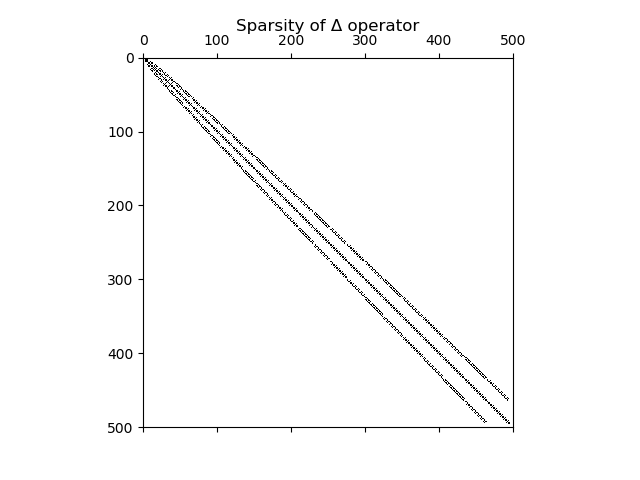
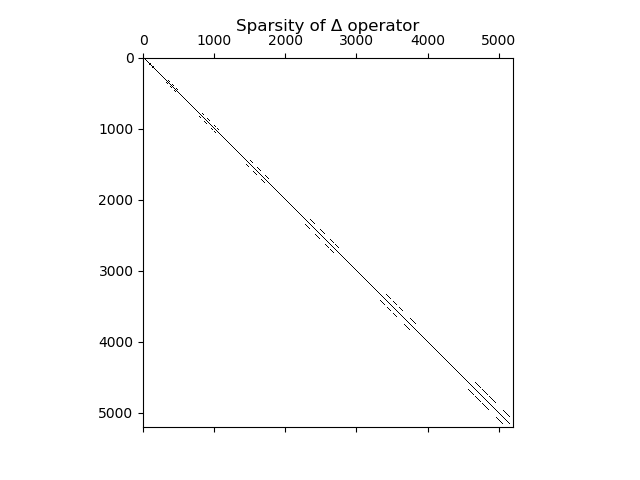
Further edits to paper. Included updated figures

diff --git a/papers/halfdisk/halfdisk.tex b/papers/halfdisk/halfdisk.tex
@@ -183,7 +183,7 @@ More precisely, let  \(\rho \: : \: (\alpha,\beta) \: \to (0,\infty)\) be such t
 
 We consider the solution of partial differential equations on the domain
 \begin{align}
-\Omega := \{(x,y) \in \R^2 \quad | \quad \alpha < x < \beta, \: \gamma \rho(x) < y < \delta \rho(x)\}
+\Omega := \{(x,y) \in \R^2 \quad | \quad \alpha < x < \beta, \: \gamma \rho(x) < y < \delta \rho(x)\}.
 \end{align}
 For simplicity of discussion we focus on the half-disk, where $\rho(x) = \sqrt{1-x^2}$,  $(\alpha,\beta) = (0, 1)$, and  $(\gamma, \delta)  = (-1,1)$, with discussion of extension to other geometries in the appendix. 
 
@@ -192,7 +192,7 @@ We show that partial differential equations become sparse linear systems when vi
 $$
 W^{(a,b)}(x,y) = x^a (1-x-y)^b
 $$
-with corresponding OPs denoted $P_{n,k}^{(a,b)}(x,y)$. We define these to be orthogonalised lexicographically, that is,
+with corresponding OPs denoted $P_{n,k}^{(a,b)}(x,y)$, where $n$ denotes the polynomial degree, and $0 \le k \le n$. We define these to be orthogonalised lexicographically, that is,
 $$
 P_{n,k}^{(a,b)}(x,y) = C_{n,k} x^{n-k} y^k + (\hbox{lower order terms})
 $$
@@ -214,12 +214,9 @@ Here is an overview of the paper:
 \noindent\secref{Examples}: We demonstrate the proposed technique for solving Poisson, Helmholtz, and Biharmonic equations on the half-disk.  
 
 
-The motivation for this work is to solve surface PDEs on the sphere.
-In subsequent work we will extend  directly by projecting up to 3D OPs on the hemisphere, where sparse operators, function evaluation and expansion etc. can be found similarly. 
-
 \section{Orthogonal polynomials on the half disk}\label{Section:OPs}
 
-In this section we outline some basic properties of $P_{n,k}^{(a,b)}(x,y)$. The symmetry in the weight allows us to express the polynomials in terms of 1D OPs, and deduce certain properties such as recurrence relationships. 
+In this section we outline the construction and some basic properties of $P_{n,k}^{(a,b)}(x,y)$. The symmetry in the weight allows us to express the polynomials in terms of 1D OPs, and deduce certain properties such as recurrence relationships. 
 
 \subsection{Explicit construction}
 
@@ -227,36 +224,46 @@ In this section we outline some basic properties of $P_{n,k}^{(a,b)}(x,y)$. The 
 By using a similar process to \cite[p55--56]{dunkl2014orthogonal} we can construct 2D orthogonal polynomials on $\Omega$ from 1D orthogonal polynomials on the intervals \([0,1]\) and \([-1,1]\).
 
 \begin{proposition}
-Let \(w_1 : (\alpha,\beta) \: \to \R\), \(w_2 : (\gamma,\delta) \: \to \R\) be weight functions with \(\alpha,\beta,\gamma,\delta \in \R\),
-Then, \(\forall n,k = 0,1,2,\dots\) let \(\{p_{n,k}\}\) be polynomials orthogonal with respect to the weight \(\rho(x)^{2k+1} w_1(x)\), and \(\{q_{n}\}\) be polynomials orthogonal with respect to the weight \(w_2(x)\). Then
+Let \(w_1 : (\alpha,\beta) \: \to \R\), \(w_2 : (\gamma,\delta) \: \to \R\) be weight functions with \(\alpha,\beta,\gamma,\delta \in \R\), and let \(\rho \: : \: (\alpha,\beta) \: \to (0,\infty)\) be such that either:
+\begin{enumerate}
+\item  \(\rho\) is a degree 1 polynomial, or 
+\item \(\rho\) is the square root of a non-negative degree \(\le\) 2 polynomial, \(-\gamma = \delta > 0\), and \(w_2\) is an even function.
+\end{enumerate}
+$\forall$, $n = 0,1,2,\dots, $ let $\{p_{n,k}\}$ be polynomials orthogonal with respect to the weight $\rho(x)^{2k+1} w_1(x)$ where $0 \le k \le n$, and $\{q_{n}\}$ be polynomials orthogonal with respect to the weight $w_2(x)$. Then the 2D polynomials defined on $\Omega$
 $$
 \Pnk(x,y) := p_{n-k,k}(x) \: \rho(x)^k \: q_k(\frac{y}{\rho(x)}) \qquad\hbox{for} \qquad 0 \le k \le n, \: n = 0,1,2,\dots
 $$
 are orthogonal polynomials with respect to the weight \(W(x,y) := w_1(x) \: w_2(\frac{y}{\rho(x)}) \) on $\Omega$. 
 \end{proposition}
+\begin{proof}
+See \cite[p55--56]{dunkl2014orthogonal}.
+\end{proof}
 
 For the half disk, the weight $W^{(a,b)}(x,y) = x^a \: (1-x^2-y^2)^b$ results from setting:
-
 \begin{align}
 \begin{cases}
 (\alpha,\beta) &:= (0.1) \\
 (\gamma,\delta) &:= (-1,1) \\
 \rho(x) &:= (1-x^2)^{\half} \\
-w_1(x) &:= x^a \: (1-x^2)^b \\
-w_2(x) &:= (1-x^2)^b = (1-x)^b \: (1+x)^b,
+w_1(x) &:= w_H^{(a,b)}(x) := x^a \: (1-x^2)^b \\
+w_2(x) &:= w_P^{(b)}(x) := (1-x^2)^b = (1-x)^b \: (1+x)^b,
 \end{cases}
 \end{align}
 
-The weight $w_2(x)$ is an ultraspherical weight, and the corresponding OPs are   the Jacobi polynomials  \(\{P_n^{(b, b)}\}\). The weight $w_1(x)$ is non-classical (it is in fact semi-classical, and is equivalent to a generalized Jacobi weight \cite{magnus1995painleve}) and we introduce the notation \(\{H_n^{(a, b)}\}\) for the orthonormal polynomials. Thus we arrive at  a two parameter family of  2D orthogonal polynomials \(\{\Pnk\}\) given by, for \(0 \le k \le n, \: n = 0,1,2,\dots,\)
+The weight $w_2(x)$ is an ultraspherical weight, and the corresponding OPs are   the Jacobi polynomials  \(\{P_n^{(b, b)}\}\). The weight $w_1(x)$ is non-classical (it is in fact semi-classical, and is equivalent to a generalized Jacobi weight \cite{magnus1995painleve}) and we introduce the notation \(\{H_n^{(a, b)}\}\) for the orthonormal polynomials. Thus we arrive at  a two parameter family of  2D orthogonal polynomials \(\{\Pnkab\}\) given by, for \(0 \le k \le n, \: n = 0,1,2,\dots,\)
 \begin{align}
  \Pnk^{(a,b)}(x,y) := H_{n-k}^{(a, b+k+\half)}(x) \: \rho(x)^k \: P_k^{(b,b)}\fpr(\frac{y}{\rho(x)}), \quad (x,y) \in \Omega, 
 \end{align}
-orthogonal on \(\Omega\) with respect to the weight $W^{(a,b)}(x,y)$.
+orthogonal on \(\Omega\) with respect to the weight
+\begin{align}
+W^{(a,b)}(x,y) = w_H^{(a,b)}(x) \: w_P^{(b)}(\frac{y}{\rho(x)}) = x^a \: (1-x^2-y^2)^b.
+\end{align}
+
 
 
 \subsection{Jacobi matrices}
 
-Express the three-term recurrences associated to $H_n^{(a,b)}$ and $P_n^{(b,b)}$ as
+We can express the three-term recurrences associated to $H_n^{(a,b)}$ and $P_n^{(b,b)}$ as
 \begin{align}
 x H_n^{(a,b)}(x) &= \beta_n^{(a,b)} H_{n+1}^{(a,b)}(x) + \alpha_n^{(a,b)} H_n^{(a,b)}(x) + \beta_{n-1}^{(a,b)} H_{n-1}^{(a,b)}(x) \\
 y P_n^{(b,b)}(y) &= \delta_n^{(b)} P_{n+1}^{(b,b)}(y) + \gamma_n^{(b)} P_n^{(b,b)}(y) + \delta_{n-1}^{(b)} P_{n-1}^{(b,b)}(y),
@@ -275,14 +282,14 @@ for \((x,y) \in \Omega\), where
 \begin{align}
 \alphaab_{n,k,1} &:= \beta_{n-k-1}^{(a, b+k+\half)} \\
 \alphaab_{n,k,2} &:= \alpha_{n-k}^{(a, b+k+\half)} \\
-\betaab_{n,k,1} &:= \frac{\delta_{k-1}^{(b)}}{|| P_{n-1,k-1}^{(a,b)} ||_{W^{(a,b)}}^2} \: \ip<H_{n-k}^{(a, b+k+\half)}, H_{n-k}^{(a, b+k-\half)}>_{H^{(a, b+k+\half)}} \\
-\betaab_{n,k,2} &:= \frac{\delta_{k}^{(b)}}{|| P_{n-1,k+1}^{(a,b)} ||_{W^{(a,b)}}^2} \: \ip<H_{n-k}^{(a, b+k+\half)}, H_{n-k-2}^{(a, b+k+\frac{3}{2})}>_{H^{(a, b+k+\frac{3}{2})}} \\
-\betaab_{n,k,3} &:= \frac{\delta_{k-1}^{(b)}}{|| P_{n,k-1}^{(a,b)} ||_{W^{(a,b)}}^2} \: \ip<H_{n-k}^{(a, b+k+\half)}, H_{n-k+1}^{(a, b+k-\half)}>_{H^{(a, b+k+\half)}} \\
-\betaab_{n,k,4} &:= \frac{\delta_{k}^{(b)}}{|| P_{n,k+1}^{(a,b)} ||_{W^{(a,b)}}^2} \: \ip<H_{n-k}^{(a, b+k+\half)}, H_{n-k-1}^{(a, b+k+\frac{3}{2})}>_{H^{(a, b+k+\frac{3}{2})}} \\
-\betaab_{n,k,5} &:= \frac{\delta_{k-1}^{(b)}}{|| P_{n+1,k-1}^{(a,b)} ||_{W^{(a,b)}}^2} \: \ip<H_{n-k}^{(a, b+k+\half)}, H_{n-k+2}^{(a, b+k-\half)}>_{H^{(a, b+k+\half)}} \\
-\betaab_{n,k,6} &:= \frac{\delta_{k}^{(b)}}{|| P_{n+1,k+1}^{(a,b)} ||_{W^{(a,b)}}^2} \: \ip<H_{n-k}^{(a, b+k+\half)}, H_{n-k}^{(a, b+k+\frac{3}{2})}>_{H^{(a, b+k+\frac{3}{2})}}. 
+\betaab_{n,k,1} &:= \frac{\delta_{k-1}^{(b)}}{|| P_{n-1,k-1}^{(a,b)} ||_{W^{(a,b)}}^2} \: \ip<H_{n-k}^{(a, b+k+\half)}, H_{n-k}^{(a, b+k-\half)}>_{w_H^{(a, b+k+\half)}} \\
+\betaab_{n,k,2} &:= \frac{\delta_{k}^{(b)}}{|| P_{n-1,k+1}^{(a,b)} ||_{W^{(a,b)}}^2} \: \ip<H_{n-k}^{(a, b+k+\half)}, H_{n-k-2}^{(a, b+k+\frac{3}{2})}>_{w_H^{(a, b+k+\frac{3}{2})}} \\
+\betaab_{n,k,3} &:= \frac{\delta_{k-1}^{(b)}}{|| P_{n,k-1}^{(a,b)} ||_{W^{(a,b)}}^2} \: \ip<H_{n-k}^{(a, b+k+\half)}, H_{n-k+1}^{(a, b+k-\half)}>_{w_H^{(a, b+k+\half)}} \\
+\betaab_{n,k,4} &:= \frac{\delta_{k}^{(b)}}{|| P_{n,k+1}^{(a,b)} ||_{W^{(a,b)}}^2} \: \ip<H_{n-k}^{(a, b+k+\half)}, H_{n-k-1}^{(a, b+k+\frac{3}{2})}>_{w_H^{(a, b+k+\frac{3}{2})}} \\
+\betaab_{n,k,5} &:= \frac{\delta_{k-1}^{(b)}}{|| P_{n+1,k-1}^{(a,b)} ||_{W^{(a,b)}}^2} \: \ip<H_{n-k}^{(a, b+k+\half)}, H_{n-k+2}^{(a, b+k-\half)}>_{w_H^{(a, b+k+\half)}} \\
+\betaab_{n,k,6} &:= \frac{\delta_{k}^{(b)}}{|| P_{n+1,k+1}^{(a,b)} ||_{W^{(a,b)}}^2} \: \ip<H_{n-k}^{(a, b+k+\half)}, H_{n-k}^{(a, b+k+\frac{3}{2})}>_{w_H^{(a, b+k+\frac{3}{2})}}. 
 \end{align}
-where $|| p(x,y) ||_{W^{(a,b)}}^2 := \int_\Omega p(x,y)^2 \: \Wab(x,y) \: d\mathbf{x}$ and $\ip<p(x), q(x)>_{H^{(a, b)}} := \int_\alpha^\beta p(x) \: q(x) \: x^a \: (1-x^2)^b \: dx$, i.e the 1D inner product using the $\{H^{(a,b)}_n\}$ family weight.
+where $|| p(x,y) ||_{W^{(a,b)}}^2 := \int_\Omega p(x,y)^2 \: \Wab(x,y) \: d\mathbf{x}$ and $\ip<p(x), q(x)>_{w_H^{(a, b)}} := \int_\alpha^\beta p(x) \: q(x) \: x^a \: (1-x^2)^b \: dx$, i.e the 1D inner product using the $\{H^{(a,b)}_n\}$ family weight of $w_H^{(a, b)}$.
 
 \end{lemma}
 
@@ -293,8 +300,8 @@ Note that \(\ip<y \Pnkab, P_{m,j}^{(a,b)}>_\Wab = 0\) for \(m < n-1\) (and for \
 &= \Big( \int^1_0 H_{n-k}^{(a, b+k+\half)}(s) \: H_{m-j}^{(a, b+j+\half)}(s) \: s^a \: \rho(s)^{2b+k+j+2} \: ds \Big) \nonumber \\
 & \quad \quad \quad\cdot \: \Big( \int^1_{-1} P_k^{(b,b)}(t) \: P_j^{(b,b)}(t) \: t \: (1-t^2)^b \: dt \Big) \\
 &= \begin{cases}
-    	\delta_k^{(b)} \: \ip<H_{n-k}^{(a, b+k+\half)}, H_{m-k-1}^{(a, b+k+\frac{3}{2})}>_{H^{(a, b+k+\frac{3}{2})}} \quad& \text{if } j = k+1 \\
-	\delta_{k-1}^{(b)} \: \ip<H_{n-k}^{(a, b+k+\half)}, H_{m-k+1}^{(a, b+k-\half)}>_{H^{(a, b+k+\half)}} \quad& \text{if } j = k-1 \\
+    	\delta_k^{(b)} \: \ip<H_{n-k}^{(a, b+k+\half)}, H_{m-k-1}^{(a, b+k+\frac{3}{2})}>_{w_H^{(a, b+k+\frac{3}{2})}} \quad& \text{if } j = k+1 \\
+	\delta_{k-1}^{(b)} \: \ip<H_{n-k}^{(a, b+k+\half)}, H_{m-k+1}^{(a, b+k-\half)}>_{w_H^{(a, b+k+\half)}} \quad& \text{if } j = k-1 \\
 	0 & \text{otherwise}
       \end{cases}.
 \end{align}
@@ -516,7 +523,7 @@ There exist sparse operators \(D_x^{(a,b)}, \: D_y^{(a,b)}, \: W_x^{(a,b)}, \: W
 \end{align}
 The incrementing and decrementing of parameters as seen here is analogous to other well known orthogonal polynomials families' derivatives, for example the Jacobi polynomials, as seen in the DLMF \cite{DLMFDerivatives}.
 
-Further, we note that there exist "parameter transformation" Banded-Block-Banded matrix operators that increment/decrement the parameters, transforming the OPs from one (weighted or non-weighted) parameter space to another. We denote these operators as $T^{(a,b)\to(a+1,b)}$, $T^{(a,b)\to(a,b+1)}$ and $T^{(a,b)\to(a+1,b+1)}$ for conversion between non-weighted spaces, and similarly $T^{(a,b)\to(a-1,b)}$, $T^{(a,b)\to(a,b-1)}$ and $T^{(a,b)\to(a-1,b-1)}$ for conversion between weighted spaces, where:
+Further, we note that there exist "parameter transformation" Banded-Block-Banded matrix operators that increment/decrement the parameters, transforming the OPs from one (weighted or non-weighted) parameter space to another. We denote these operators as $T^{(a,b)\to(a+1,b)}$, $T^{(a,b)\to(a,b+1)}$ and $T^{(a,b)\to(a+1,b+1)}$ for conversion between non-weighted spaces, and similarly $T_W^{(a,b)\to(a-1,b)}$, $T_W^{(a,b)\to(a,b-1)}$ and $T_W^{(a,b)\to(a-1,b-1)}$ for conversion between weighted spaces, where:
 \begin{align}
 \bigP^{(a,b)}(x,y) &= \Big(T^{(a,b)\to(a+1,b)} \Big)^T \: \bigP^{(a+1,b)}(x,y) \\
 \bigP^{(a,b)}(x,y) &= \Big(T^{(a,b)\to(a,b+1)} \Big)^T \: \bigP^{(a,b+1)}(x,y) \\
@@ -640,14 +647,14 @@ x_{i+(k-1)N} &:= s_k, \quad i,k = 1,\dots,N, \\
 y_{l+(i-1)N} &:= (1-s_l^2)^\half \: t_l, \quad i,l = 1,\dots,N, \\
 w_{l+(k-1)N} &:= w_k^{(s)} w_l^{(t)}, \quad k,l = 1,\dots,N.
 \end{align}
-If $f(x,y)$ is an at most degree $N$ polynomial in $x$ and at most degree $2N-1$ in $y$ then
+Let $f(x,y)$ be a polynomial on $\Omega$. The quadrature rule is then
 $$
-\iint_\Omega f(x,y) \: \Wab(x,y) \: \D A = \half \sum_{j=1}^{N^2} w_j \: \big[ f(x_j, y_j) + f(x_j, -y_j) \big],
+\iint_\Omega f(x,y) \: \Wab(x,y) \: \D A \approx \half \sum_{j=1}^{N^2} w_j \: \big[ f(x_j, y_j) + f(x_j, -y_j) \big],
 $$
-
+where if $f(\cdot, y)$ for fixed $y$ is an at most degree $N$ polynomial and $f(x, \cdot)$ for fixed $x$  is an at most degree $2N-1$ polynomial, the quadrature rule is exact.
 \end{theorem}
-\begin{proof}
 
+\begin{proof}
 We will use the substitution that
 \begin{align}
 x &= s, \quad y = (1-s^2)^\half t.
@@ -657,7 +664,6 @@ First, note that
 W^{(a,b)}(x,y) &= x^a \: (1-x^2-y^2)^b, \quad \text{for } (x,y) \in \Omega, \\
 		      &= s^a \: (1-s^2)^{b} \: (1-t^2)^b =: V^{(a,b)}(s,t), \quad \text{for } (s,t) \in [0,1] \times [-1,1].
 \end{align}
-
 \end{proof}
 
 
@@ -687,35 +693,40 @@ and where
 f_{n,k} := \frac{\langle f, \: \Pnk^{(a,b)} \rangle_{W^{(a,b)}}}{|| \Pnk^{(a,b)} ||_{W^{(a,b)}}}
 \end{align*}
 
-
-\bstodo{This section contains repetition / expansion on the quadrature rule section above - not sure if we should remove it or move it?} We can develop a quadrature rule on the half disk \(\Omega\) in order to evaluate (40) and obtain the coefficient vectors \(\mathbf{f}_n\) as follows.
-
-Let \(f(x,y)\) be polynomial that is even in \(y\) of degree $d_1$ in $x$ and degree $d_2$ in $y$ (i.e. $f(\cdot, y)$ with $y$ fixed is a degree $d_1$ polynomial, and $f(x, \cdot)$ with $x$ fixed is an even degree $d_2$ polynomial). Then there exists a polynomial \(\tilde{f}(x,y)\) in \(x,y\) such that \(g(s,t) := f(x, y) = f(s, (1-s^2)^\half t) = \tilde{f}(s, (1-s^2) t^2)\) (i.e. that $d_2$ is an even integer). Now, as \(\tilde{f}\) is a polynomial, so must \(g\) be a polynomial of degree $d_1+\frac{d_2}{2}$ in $s$ and degree $d_2$ in $t$. Thus a quadrature rule of the following will be exact for the polynomial $f(x,y)$ (even in \(y\) of degree $\le d_1$ in $x$ and degree $\le d_2$ in $y$):
-\begin{align}
-& \quad \int_0^1 \int_{-\rho(x)}^{\rho(x)} W^{(a,b)}(x,y) \: f(x,y) \: dy \: dx \\
-&= \int_0^1 \int_{-1}^1 V^{(a,b)}(s,t) \: g(s,t) \: (1-s^2)^\half \: dt \: ds \\
-&= \int_0^1 s^a \: (1-s^2)^{b+\half} \: \Big( \sum_k^{\half(d_2 + 1)} w_k^{(t)} \: g(s, t_k) \Big) \: ds \\
-&= \sum_j^{\half(d_1 + \frac{d_2}{2} + 1)} \sum_k^{\half(d_2 + 1)} w_j^{(s)} w_k^{(t)} \: g(s_j, t_k) \\
-&= \sum_j^{\half(d_1 + \frac{d_2}{2} + 1)} \sum_k^{\half(d_2 + 1)} w_j^{(s)} w_k^{(t)} \: f(x_j, y_{j,k}),
-\end{align}
-where \(x_j := s_j,\) \(y_{j,k} := \rho(s_j) \: t_k\) are the quadrature points.
-
-We further note that for any polynomial \(f(x,y)\) that is odd in \(y\),
-\begin{align}
-\int_0^1 \int_{-\rho(x)}^{\rho(x)} W^{(a,b)}(x,y) \: f(x,y) \: dy \: dx = 0.
-\end{align}
-
-
-Then our quadrature rule for any polynomial \(f(x,y)\) on \(\Omega\) is:
-\begin{align}
-\int \int_\Omega W^{(a,b)}(x,y) \: f(x,y) \: dy \: dx \approx \half \: \sum_{j=1}^{N^2} w_j \: \big[ f(x_j, y_j) + f(x_j, -y_j) \big],
-\end{align}
-and is exact for any polynomial $f(x,y)$ where the degree in $x$ is $\le N$ and the degree in $y$ is $\le 2N-1$. Note that for a general polynomial where the overall degree is $N$, we still would hence need $N^2$ points and weights to make the rule exact. Thus,
+Using the quadrature rule detailed in Section 4.2, we can calculate exactly the coefficients $f_{n,k}$:
 \begin{align}
 \ip< f, \: \Pnk^{(a,b)} >_{W^{(a,b)}} &= \half \: \sum_{j=1}^{N^2} w_j \: \big[ \big(f(x_j, y_j) \: \Pnk^{(a,b)}(x_j, y_j)\big) +\big(f(x_j, -y_j) \: \Pnk^{(a,b)}(x_j, -y_j)\big) \big], \\
-|| \Pnk^{(a,b)} ||_{W^{(a,b)}}^2 &= \half \: \sum_{j=1}^{N^2} w_j \: \big[ \Pnk^{(a,b)}(x_j, y_j)^2 + \Pnk^{(a,b)}(x_j, -y_j)^2 \big],
+|| \Pnk^{(a,b)} ||_{W^{(a,b)}}^2 &= \half \: \sum_{j=1}^{N^2} w_j \: \big[ \Pnk^{(a,b)}(x_j, y_j)^2 + \Pnk^{(a,b)}(x_j, -y_j)^2 \big].
 \end{align}
-for suitably large $N$.
+
+%\bstodo{This section contains repetition / expansion on the quadrature rule section above - not sure if we should remove it or move it?} We can develop a quadrature rule on the half disk \(\Omega\) in order to evaluate (40) and obtain the coefficient vectors \(\mathbf{f}_n\) as follows.
+%
+%Let \(f(x,y)\) be polynomial that is even in \(y\) of degree $d_1$ in $x$ and degree $d_2$ in $y$ (i.e. $f(\cdot, y)$ with $y$ fixed is a degree $d_1$ polynomial, and $f(x, \cdot)$ with $x$ fixed is an even degree $d_2$ polynomial). Then there exists a polynomial \(\tilde{f}(x,y)\) in \(x,y\) such that \(g(s,t) := f(x, y) = f(s, (1-s^2)^\half t) = \tilde{f}(s, (1-s^2) t^2)\) (i.e. that $d_2$ is an even integer). Now, as \(\tilde{f}\) is a polynomial, so must \(g\) be a polynomial of degree $d_1+\frac{d_2}{2}$ in $s$ and degree $d_2$ in $t$. Thus a quadrature rule of the following will be exact for the polynomial $f(x,y)$ (even in \(y\) of degree $\le d_1$ in $x$ and degree $\le d_2$ in $y$):
+%\begin{align}
+%& \quad \int_0^1 \int_{-\rho(x)}^{\rho(x)} W^{(a,b)}(x,y) \: f(x,y) \: dy \: dx \\
+%&= \int_0^1 \int_{-1}^1 V^{(a,b)}(s,t) \: g(s,t) \: (1-s^2)^\half \: dt \: ds \\
+%&= \int_0^1 s^a \: (1-s^2)^{b+\half} \: \Big( \sum_k^{\half(d_2 + 1)} w_k^{(t)} \: g(s, t_k) \Big) \: ds \\
+%&= \sum_j^{\half(d_1 + \frac{d_2}{2} + 1)} \sum_k^{\half(d_2 + 1)} w_j^{(s)} w_k^{(t)} \: g(s_j, t_k) \\
+%&= \sum_j^{\half(d_1 + \frac{d_2}{2} + 1)} \sum_k^{\half(d_2 + 1)} w_j^{(s)} w_k^{(t)} \: f(x_j, y_{j,k}),
+%\end{align}
+%where \(x_j := s_j,\) \(y_{j,k} := \rho(s_j) \: t_k\) are the quadrature points.
+%
+%We further note that for any polynomial \(f(x,y)\) that is odd in \(y\),
+%\begin{align}
+%\int_0^1 \int_{-\rho(x)}^{\rho(x)} W^{(a,b)}(x,y) \: f(x,y) \: dy \: dx = 0.
+%\end{align}
+%
+%
+%Then our quadrature rule for any polynomial \(f(x,y)\) on \(\Omega\) is:
+%\begin{align}
+%\int \int_\Omega W^{(a,b)}(x,y) \: f(x,y) \: dy \: dx \approx \half \: \sum_{j=1}^{N^2} w_j \: \big[ f(x_j, y_j) + f(x_j, -y_j) \big],
+%\end{align}
+%and is exact for any polynomial $f(x,y)$ where the degree in $x$ is $\le N$ and the degree in $y$ is $\le 2N-1$. Note that for a general polynomial where the overall degree is $N$, we still would hence need $N^2$ points and weights to make the rule exact. Thus,
+%\begin{align}
+%\ip< f, \: \Pnk^{(a,b)} >_{W^{(a,b)}} &= \half \: \sum_{j=1}^{N^2} w_j \: \big[ \big(f(x_j, y_j) \: \Pnk^{(a,b)}(x_j, y_j)\big) +\big(f(x_j, -y_j) \: \Pnk^{(a,b)}(x_j, -y_j)\big) \big], \\
+%|| \Pnk^{(a,b)} ||_{W^{(a,b)}}^2 &= \half \: \sum_{j=1}^{N^2} w_j \: \big[ \Pnk^{(a,b)}(x_j, y_j)^2 + \Pnk^{(a,b)}(x_j, -y_j)^2 \big],
+%\end{align}
+%for suitably large $N$.
 
 
 %
@@ -840,11 +851,11 @@ Then, using the operator $\Delta$, we can solve this system for the given initia
 
 
 %
-\section{Future work - orthogonal polynomials on the hemisphere and spherical triangles}
+\section{Future work - orthogonal polynomials on the half-spheres and spherical triangles}
 
-We will use a similar idea of projecting up from 1D OPs to the interval, to 2D OPs on the disk, to 3D OPs on the sphere. Initially, we will add to the ApproxFun library by adding capability to work with OPs on the half disk (2D) with weights governed by parameters that will be incremented/decremented after an application of an operator (e.g. partial derivative). With this, we can obtain a family of OPs on the hemisphere, with sparse relations.
+We will use a similar idea of projecting up from 1D OPs to the interval, to 2D OPs on the disk, to 3D OPs on the sphere. Initially, we will add to the ApproxFun library by adding capability to work with OPs on the half disk (2D) with weights governed by parameters that will be incremented/decremented after an application of an operator (e.g. partial derivative). With this, we can obtain a family of OPs on the half-sphere, with sparse relations, and construct sparse spectral methods for surface PDEs on half-spheres. An extension to this will be to look at a $p$-finite element method on the sphere using two half-sphere elements. We plan to extend this work to construct similar methods on other 3D spherical domains, such as spherical caps and spherical triangles, which will have applications in numerical weather prediction. 
 
-Beyond this, solving PDEs on isosceles triangles should follow using the same procedure. However, we are expecting that to solve PDEs on spherical triangles (as is our ultimate goal) will require further ideas beyond the procedures given in this document.
+Other extensions include a full $hp$-finite element method on sections of a disk which has applications in fluids. 
 
 %
 \appendix
@@ -988,49 +999,49 @@ orthogonal with respect to the weight
 
 Note that by setting $c = 0$, $\alpha = 0$ and $\beta = 1$ we obtain the 2D orthogonal polynomials on the half disk.
 
-
-\section{Hemisphere}
-
-We can use the similar idea of projecting up from the 2D orthogonal polynomials on the half disk to 3D OPs on the hemisphere. Define $\rho(x) := (1-x^2)^\half$ for $x \in [0,1]$ and let the half disk be denoted by $\omega$, that is let
-\begin{align}
-	\omega := \{(x,y) \in \R^2 \quad | \quad 1 < x < 0, \: \rho(x) < y < \rho(x)\}.
-\end{align}
-Further, define the hemisphere by
-\begin{align}
-	\Omega := \{(x,y,z) \in \R^3 \quad | \quad (x,y) \in \omega, \: x^2 + y^2 + z^2 = 1\}.
-\end{align}
-We can define the 3D OP family on the hemisphere as the set of polynomials $\bigQab(x,y,z)$ where
-\begin{align}
-	\bigQab_n(x,y,z) := \begin{pmatrix}
-		\bigPab_n(x,y) \\
-		z \: \bigP^{(a,b+1)}_{n-1}(x,y)
-	\end{pmatrix} \in \R^{2n+1}, 
-	\quad \quad 
-	\bigQab := \begin{pmatrix}
-		\bigQab_0 \\
-		\bigQab_1 \\
-		\vdots \\
-		\bigQab_N
-	\end{pmatrix}.
-\end{align}
-The relations for multiplication by $x, y$ are then trivial. For multiplication by $z$, note that $z^2 = W^{(0,1)}(x,y)$ for $(x,y,z) \in \Omega$ and consider that (as the 2D OPs for any parameters form a 2D basis of $\omega$):
-\begin{align}
-	z \: \Pnkab(x,y) &= \sum_{m,j} c_{n,k,m,j}^{(a,b)\to(a,b+1)} \: z \: P^{(a,b+1)}_{m,j}(x,y), \\
-	z^2 \: \Pnkab(x,y) &= \sum_{m,j} d_{n,k,m,j}^{(a,b)\to(a,b-1)} \: z \: P^{(a,b-1)}_{m,j}(x,y).
-\end{align}
-A simple calculation shows that the expansions are sparse, that is that most coefficients $c_{n,k,m,j}^{(a,b)\to(a,b+1)}$ and $d_{n,k,m,j}^{(a,b)\to(a,b-1)}$ are $0$, and are also given by
-\begin{align}
-	c_{n,k,m,j}^{(a,b)\to(a,b+1)} &= \frac{\ip< \Pnkab, \: P^{(a,b+1)}_{m,j} >_{W^{(a,b+1)}}}{\norm{P^{(a,b+1)}_{m,j}}^2_{W^{(a,b+1)}}} \\
-	d_{n,k,m,j}^{(a,b)\to(a,b-1)} &= \frac{\ip< W^{(0,1)} \Pnkab, \: P^{(a,b-1)}_{m,j} >_{W^{(a,b-1)}}}{\norm{P^{(a,b-1)}_{m,j}}^2_{W^{(a,b-1)}}} \nonumber \\
-	&= \frac{\ip< \Pnkab, \: P^{(a,b-1)}_{m,j} >_{W^{(a,b)}}}{\norm{P^{(a,b-1)}_{m,j}}^2_{W^{(a,b-1)}}} \nonumber \\
-	&= \frac{\norm{\Pnkab}_\Wab^2}{\norm{P^{(a,b-1)}_{m,j}}^2_{W^{(a,b-1)}}} \: c_{m,j,n,k}^{(a,b-1)\to(a,b)}.
-\end{align}
-The coefficients $c_{n,k,m,j}^{(a,b)\to(a,b+1)}$ and $d_{n,k,m,j}^{(a,b)\to(a,b-1)}$ are just the entries to the parameter tranformation operator matrices
-\begin{align}
-	\bigP^{(a,b)}(x,y) &= \Big(T^{(a,b)\to(a,b+1)} \Big)^T \: \bigP^{(a,b+1)}(x,y) \\
-	W^{(0,1)}(x,y) \bigP^{(a,b)}(x,y) &= \Big(T^{(a,b)\to(a,b-1)} \Big)^T \: \bigP^{(a,b-1)}(x,y)
-\end{align}
-respectively.
+%
+%\section{Hemisphere}
+%
+%We can use the similar idea of projecting up from the 2D orthogonal polynomials on the half disk to 3D OPs on the hemisphere. Define $\rho(x) := (1-x^2)^\half$ for $x \in [0,1]$ and let the half disk be denoted by $\omega$, that is let
+%\begin{align}
+%	\omega := \{(x,y) \in \R^2 \quad | \quad 1 < x < 0, \: \rho(x) < y < \rho(x)\}.
+%\end{align}
+%Further, define the hemisphere by
+%\begin{align}
+%	\Omega := \{(x,y,z) \in \R^3 \quad | \quad (x,y) \in \omega, \: x^2 + y^2 + z^2 = 1\}.
+%\end{align}
+%We can define the 3D OP family on the hemisphere as the set of polynomials $\bigQab(x,y,z)$ where
+%\begin{align}
+%	\bigQab_n(x,y,z) := \begin{pmatrix}
+%		\bigPab_n(x,y) \\
+%		z \: \bigP^{(a,b+1)}_{n-1}(x,y)
+%	\end{pmatrix} \in \R^{2n+1}, 
+%	\quad \quad 
+%	\bigQab := \begin{pmatrix}
+%		\bigQab_0 \\
+%		\bigQab_1 \\
+%		\vdots \\
+%		\bigQab_N
+%	\end{pmatrix}.
+%\end{align}
+%The relations for multiplication by $x, y$ are then trivial. For multiplication by $z$, note that $z^2 = W^{(0,1)}(x,y)$ for $(x,y,z) \in \Omega$ and consider that (as the 2D OPs for any parameters form a 2D basis of $\omega$):
+%\begin{align}
+%	z \: \Pnkab(x,y) &= \sum_{m,j} c_{n,k,m,j}^{(a,b)\to(a,b+1)} \: z \: P^{(a,b+1)}_{m,j}(x,y), \\
+%	z^2 \: \Pnkab(x,y) &= \sum_{m,j} d_{n,k,m,j}^{(a,b)\to(a,b-1)} \: z \: P^{(a,b-1)}_{m,j}(x,y).
+%\end{align}
+%A simple calculation shows that the expansions are sparse, that is that most coefficients $c_{n,k,m,j}^{(a,b)\to(a,b+1)}$ and $d_{n,k,m,j}^{(a,b)\to(a,b-1)}$ are $0$, and are also given by
+%\begin{align}
+%	c_{n,k,m,j}^{(a,b)\to(a,b+1)} &= \frac{\ip< \Pnkab, \: P^{(a,b+1)}_{m,j} >_{W^{(a,b+1)}}}{\norm{P^{(a,b+1)}_{m,j}}^2_{W^{(a,b+1)}}} \\
+%	d_{n,k,m,j}^{(a,b)\to(a,b-1)} &= \frac{\ip< W^{(0,1)} \Pnkab, \: P^{(a,b-1)}_{m,j} >_{W^{(a,b-1)}}}{\norm{P^{(a,b-1)}_{m,j}}^2_{W^{(a,b-1)}}} \nonumber \\
+%	&= \frac{\ip< \Pnkab, \: P^{(a,b-1)}_{m,j} >_{W^{(a,b)}}}{\norm{P^{(a,b-1)}_{m,j}}^2_{W^{(a,b-1)}}} \nonumber \\
+%	&= \frac{\norm{\Pnkab}_\Wab^2}{\norm{P^{(a,b-1)}_{m,j}}^2_{W^{(a,b-1)}}} \: c_{m,j,n,k}^{(a,b-1)\to(a,b)}.
+%\end{align}
+%The coefficients $c_{n,k,m,j}^{(a,b)\to(a,b+1)}$ and $d_{n,k,m,j}^{(a,b)\to(a,b-1)}$ are just the entries to the parameter tranformation operator matrices
+%\begin{align}
+%	\bigP^{(a,b)}(x,y) &= \Big(T^{(a,b)\to(a,b+1)} \Big)^T \: \bigP^{(a,b+1)}(x,y) \\
+%	W^{(0,1)}(x,y) \bigP^{(a,b)}(x,y) &= \Big(T^{(a,b)\to(a,b-1)} \Big)^T \: \bigP^{(a,b-1)}(x,y)
+%\end{align}
+%respectively.
 
 
 
